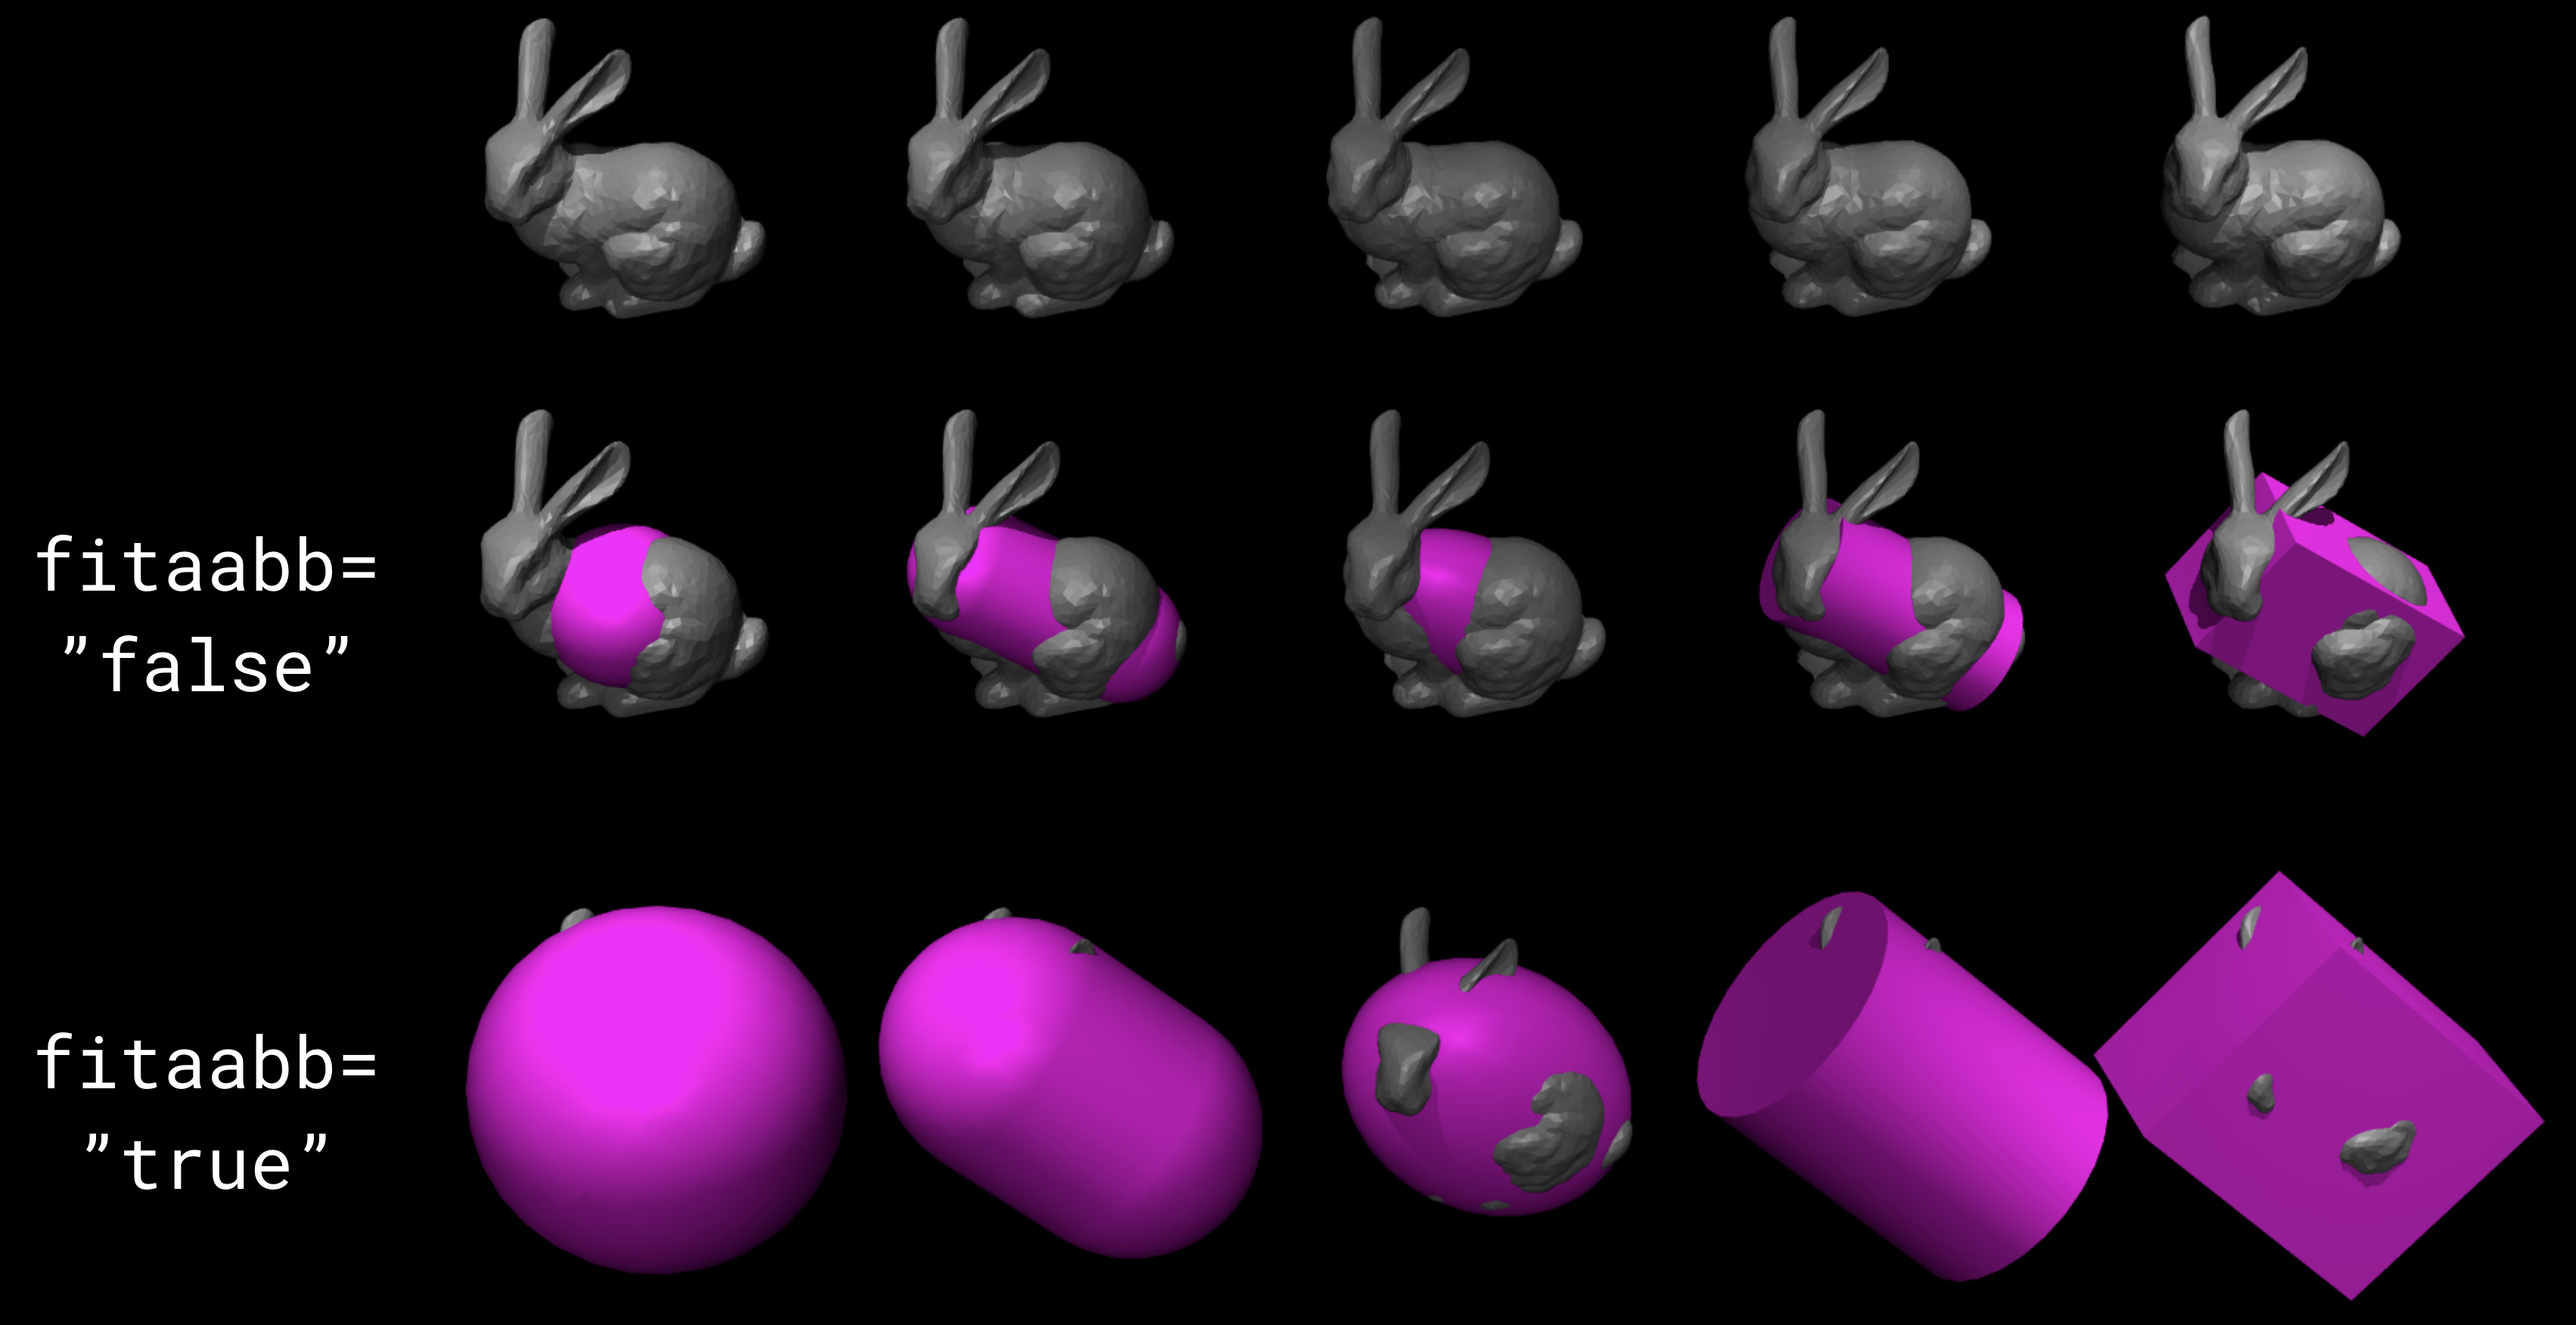
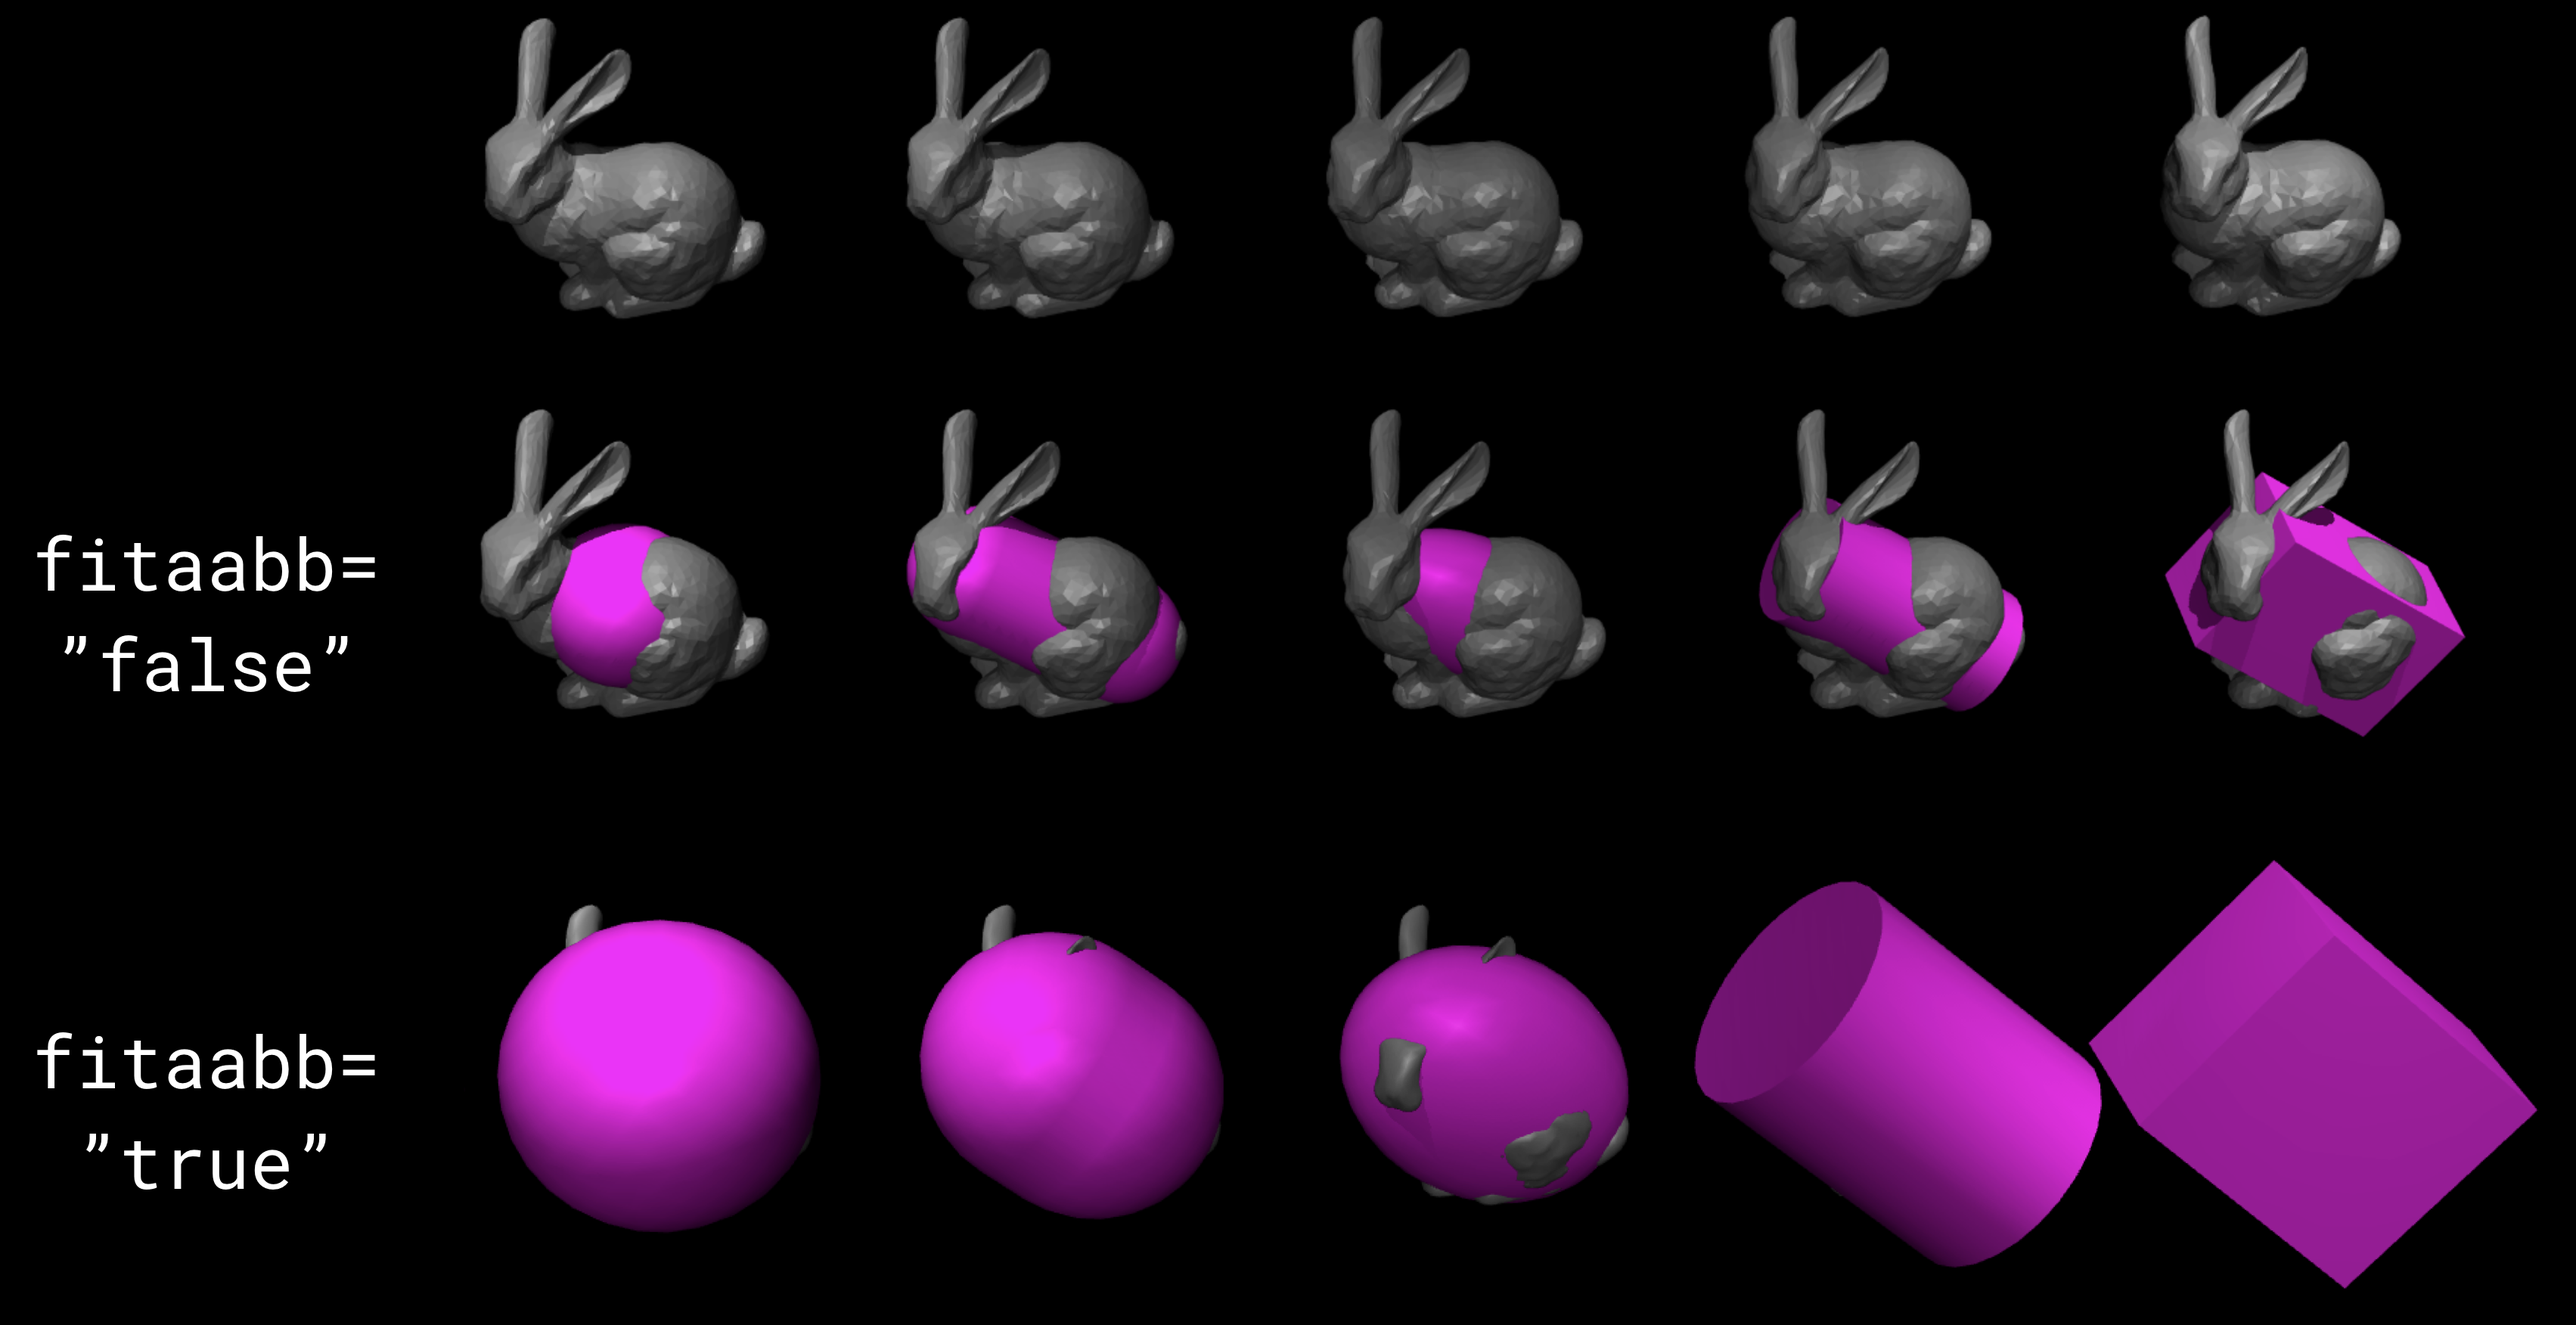
Do not modify mesh position when fitting a geom to the mesh AABB.
Also, unify the meaning of fitting a geom to an AABB: it now means to find the smallest geom such that its AABB contains the mesh AABB.

Fixes #2881.

PiperOrigin-RevId: 817097544

diff --git a/src/user/user_mesh.cc b/src/user/user_mesh.cc
@@ -979,10 +979,7 @@ void mjCMesh::DelTexcoord() {
 
 
 // set geom size to match mesh
-void mjCMesh::FitGeom(mjCGeom* geom, double* meshpos) {
-  // copy mesh pos into meshpos
-  mjuu_copyvec(meshpos, GetPosPtr(), 3);
-
+void mjCMesh::FitGeom(mjCGeom* geom, double center[3]) {
   // use inertial box
   if (!model->compiler.fitaabb) {
     // get inertia box type (shell or volume)
@@ -1016,64 +1013,35 @@ void mjCMesh::FitGeom(mjCGeom* geom, double* meshpos) {
 
   // use aamm
   else {
-    // find aabb box center
-    double cen[3] = {(aamm_[0]+aamm_[3])/2, (aamm_[1]+aamm_[4])/2, (aamm_[2]+aamm_[5])/2};
+    // find aabb box center and size
+    center[0] = (aamm_[0]+aamm_[3])/2;
+    center[1] = (aamm_[1]+aamm_[4])/2;
+    center[2] = (aamm_[2]+aamm_[5])/2;
+    double size[3] = {aamm_[3] - center[0], aamm_[4] - center[1], aamm_[5] - center[2]};
 
-    // add box center into meshpos
-    meshpos[0] += cen[0];
-    meshpos[1] += cen[1];
-    meshpos[2] += cen[2];
-
-    // compute depending on type
+    // compute smallest geom whose aabb contains the mesh aabb
     switch (geom->type) {
       case mjGEOM_SPHERE:
-        // find maximum distance
-        geom->size[0] = 0;
-        for (int i=0; i < nvert(); i++) {
-          double v[3] = {vert_[3*i], vert_[3*i+1], vert_[3*i+2]};
-          double dst = mjuu_dist3(v, cen);
-          geom->size[0] = max(geom->size[0], dst);
-        }
+        geom->size[0] = max(max(size[0], size[1]), size[2]);
         break;
 
       case mjGEOM_CAPSULE:
       case mjGEOM_CYLINDER:
         // find maximum distance in XY, separately in Z
-        geom->size[0] = 0;
-        geom->size[1] = 0;
-        for (int i=0; i < nvert(); i++) {
-          double v[3] = {vert_[3*i], vert_[3*i+1], vert_[3*i+2]};
-          double dst = sqrt((v[0]-cen[0])*(v[0]-cen[0]) +
-                            (v[1]-cen[1])*(v[1]-cen[1]));
-          geom->size[0] = max(geom->size[0], dst);
-
-          // proceed with z: valid for cylinder
-          double dst2 = abs(v[2]-cen[2]);
-          geom->size[1] = max(geom->size[1], dst2);
-        }
+        geom->size[0] = max(size[0], size[1]);
+        geom->size[1] = size[2];
 
         // special handling of capsule: consider curved cap
         if (geom->type == mjGEOM_CAPSULE) {
-          geom->size[1] = 0;
-          for (int i=0; i < nvert(); i++) {
-            // get distance in XY and Z
-            double v[3] = {vert_[3*i], vert_[3*i+1], vert_[3*i+2]};
-            double dst = sqrt((v[0]-cen[0])*(v[0]-cen[0]) +
-                              (v[1]-cen[1])*(v[1]-cen[1]));
-            double dst2 = abs(v[2]-cen[2]);
-
-            // get spherical elevation at horizontal distance dst
-            double h = geom->size[0] * sin(acos(dst/geom->size[0]));
-            geom->size[1] = max(geom->size[1], dst2-h);
-          }
+          geom->size[1] -= geom->size[0];
         }
         break;
 
       case mjGEOM_ELLIPSOID:
       case mjGEOM_BOX:
-        geom->size[0] = aamm_[3] - cen[0];
-        geom->size[1] = aamm_[4] - cen[1];
-        geom->size[2] = aamm_[5] - cen[2];
+        geom->size[0] = size[0];
+        geom->size[1] = size[1];
+        geom->size[2] = size[2];
         break;
 
       default:

diff --git a/src/user/user_objects.cc b/src/user/user_objects.cc
@@ -3732,22 +3732,26 @@ void mjCGeom::Compile(void) {
 
     // save reference in case this is not an mjGEOM_MESH
     mjCMesh* pmesh = mesh;
+    double center[3] = {0, 0, 0};
 
     // fit geom if type is not mjGEOM_MESH
     if (type != mjGEOM_MESH && type != mjGEOM_SDF) {
-      double meshpos[3];
-      mesh->FitGeom(this, meshpos);
+      mesh->FitGeom(this, center);
 
       // remove reference to mesh
       meshname_.clear();
       mesh = nullptr;
-      mjuu_copyvec(pmesh->GetPosPtr(), meshpos, 3);
     } else if (typeinertia == mjINERTIA_SHELL) {
       throw mjCError(this, "for mesh geoms, inertia should be specified in the mesh asset");
     }
 
-    // apply geom pos/quat as offset
-    mjuu_frameaccum(pos, quat, pmesh->GetPosPtr(), pmesh->GetQuatPtr());
+    // rotate center to geom frame and add it to mesh frame
+    double meshpos[3];
+    mjuu_rotVecQuat(meshpos, center, pmesh->GetQuatPtr());
+    mjuu_addtovec(meshpos, pmesh->GetPosPtr(), 3);
+
+    // accumulate mesh frame into geom frame
+    mjuu_frameaccum(pos, quat, meshpos, pmesh->GetQuatPtr());
   }
 
   // check size parameters

diff --git a/src/user/user_objects.h b/src/user/user_objects.h
@@ -1186,7 +1186,7 @@ class mjCMesh: public mjCMesh_, private mjsMesh {
   double* GetQuatPtr();                             // get orientation
   double* GetInertiaBoxPtr();                       // get inertia box
   double GetVolumeRef() const;                      // get volume
-  void FitGeom(mjCGeom* geom, double* meshpos);     // approximate mesh with simple geom
+  void FitGeom(mjCGeom* geom, double center[3]);    // approximate mesh with simple geom
   bool HasTexcoord() const;                         // texcoord not null
   void DelTexcoord();                               // delete texcoord
   bool IsVisual(void) const { return visual_; }     // is geom visual

diff --git a/doc/XMLreference.rst b/doc/XMLreference.rst
@@ -735,12 +735,12 @@ has any effect. The settings here are global and apply to the entire model.
 
 :at:`fitaabb`: :at-val:`[false, true], "false"`
    The compiler is able to replace a mesh with a geometric primitive fitted to that mesh; see :ref:`geom <body-geom>`
-   below. If this attribute is "true", the fitting procedure uses the axis-aligned bounding box (aabb) of the mesh.
-   Otherwise it uses the equivalent-inertia box of the mesh. The type of geometric primitive used for fitting is
-   specified separately for each geom. The models used to generate the image on the right can be found
-   `here <https://github.com/google-deepmind/mujoco/blob/main/test/user/testdata/fitmesh_inertiabox.xml>`__ (fit inertia
-   box) and `here <https://github.com/google-deepmind/mujoco/blob/main/test/user/testdata/fitmesh_aabb.xml>`__ (fit
-   aabb).
+   below. If this attribute is "true", the fitting procedure uses the axis-aligned bounding box (AABB) of the mesh,
+   choosing the smallest primitive whose AABB contains the mesh AABB. Otherwise it uses the equivalent-inertia box of
+   the mesh. The type of geometric primitive used for fitting is specified separately for each geom. The models used to
+   generate the image on the right can be found `here
+   <https://github.com/google-deepmind/mujoco/blob/main/test/user/testdata/fitmesh_inertiabox.xml>`__ (fit inertia box)
+   and `here <https://github.com/google-deepmind/mujoco/blob/main/test/user/testdata/fitmesh_aabb.xml>`__ (fit aabb).
 
 .. _compiler-eulerseq:
 

diff --git a/doc/changelog.rst b/doc/changelog.rst
@@ -38,6 +38,12 @@ MJX
 - Pull in MuJoCo Warp updatest to ``io.py``, and use ``naconmax`` instead of ``naconmax`` to set the maximum number of
   contacts over all environments.
 
+Bug fixes
+^^^^^^^^^
+- Fix :github:issue:`2881`, :at:`fitaabb` was adding an offset to the mesh and applying an incorrect frame
+  transformation. Also, unify the meaning of fitting a geom to a mesh AABB: it now means to find the smallest geom such
+  that its AABB contains the mesh AABB.
+
 Version 3.3.6 (September 15, 2025)
 ----------------------------------
 
